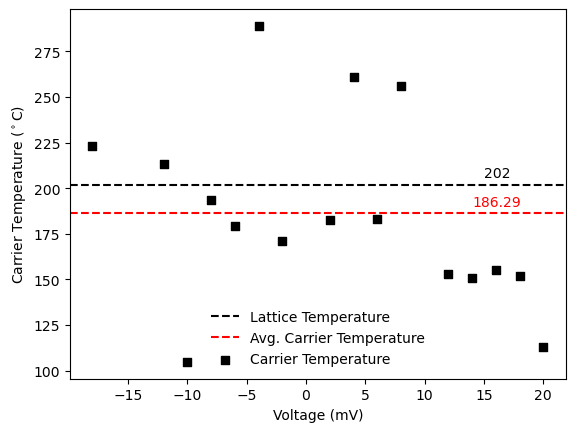
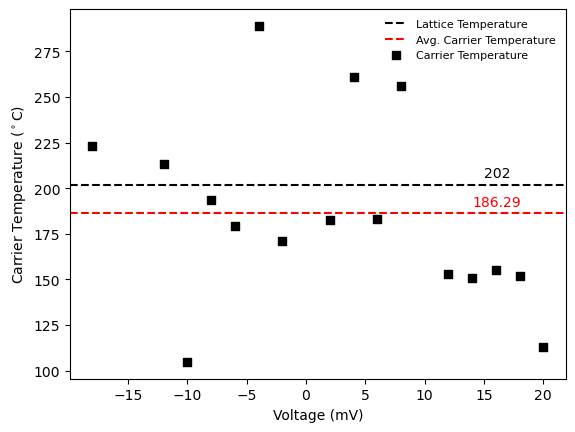
Fixed legend positioning and size for 995

Changed region(s): [[0.3843, 0.7222, 0.7391, 0.8426], [0.68, 0.0301, 0.9757, 0.1505]]

diff --git a/test_v3.py b/test_v3.py
@@ -319,7 +319,7 @@ if (splitted[-1] == '995'):
     plt.text(14, avg_temp+4, f'{round(avg_temp,2)}', color='red')
     plt.ylabel('Carrier Temperature ($^\circ$C)')
     plt.xlabel('Voltage (mV)')
-    plt.legend(frameon=False)
+    plt.legend(frameon=False, prop={'size': 8})
     plt.ioff()
     plt.savefig(path2 + f"/{dirName2}/c_temp.png", bbox_inches='tight')
     plt.close(fig)
